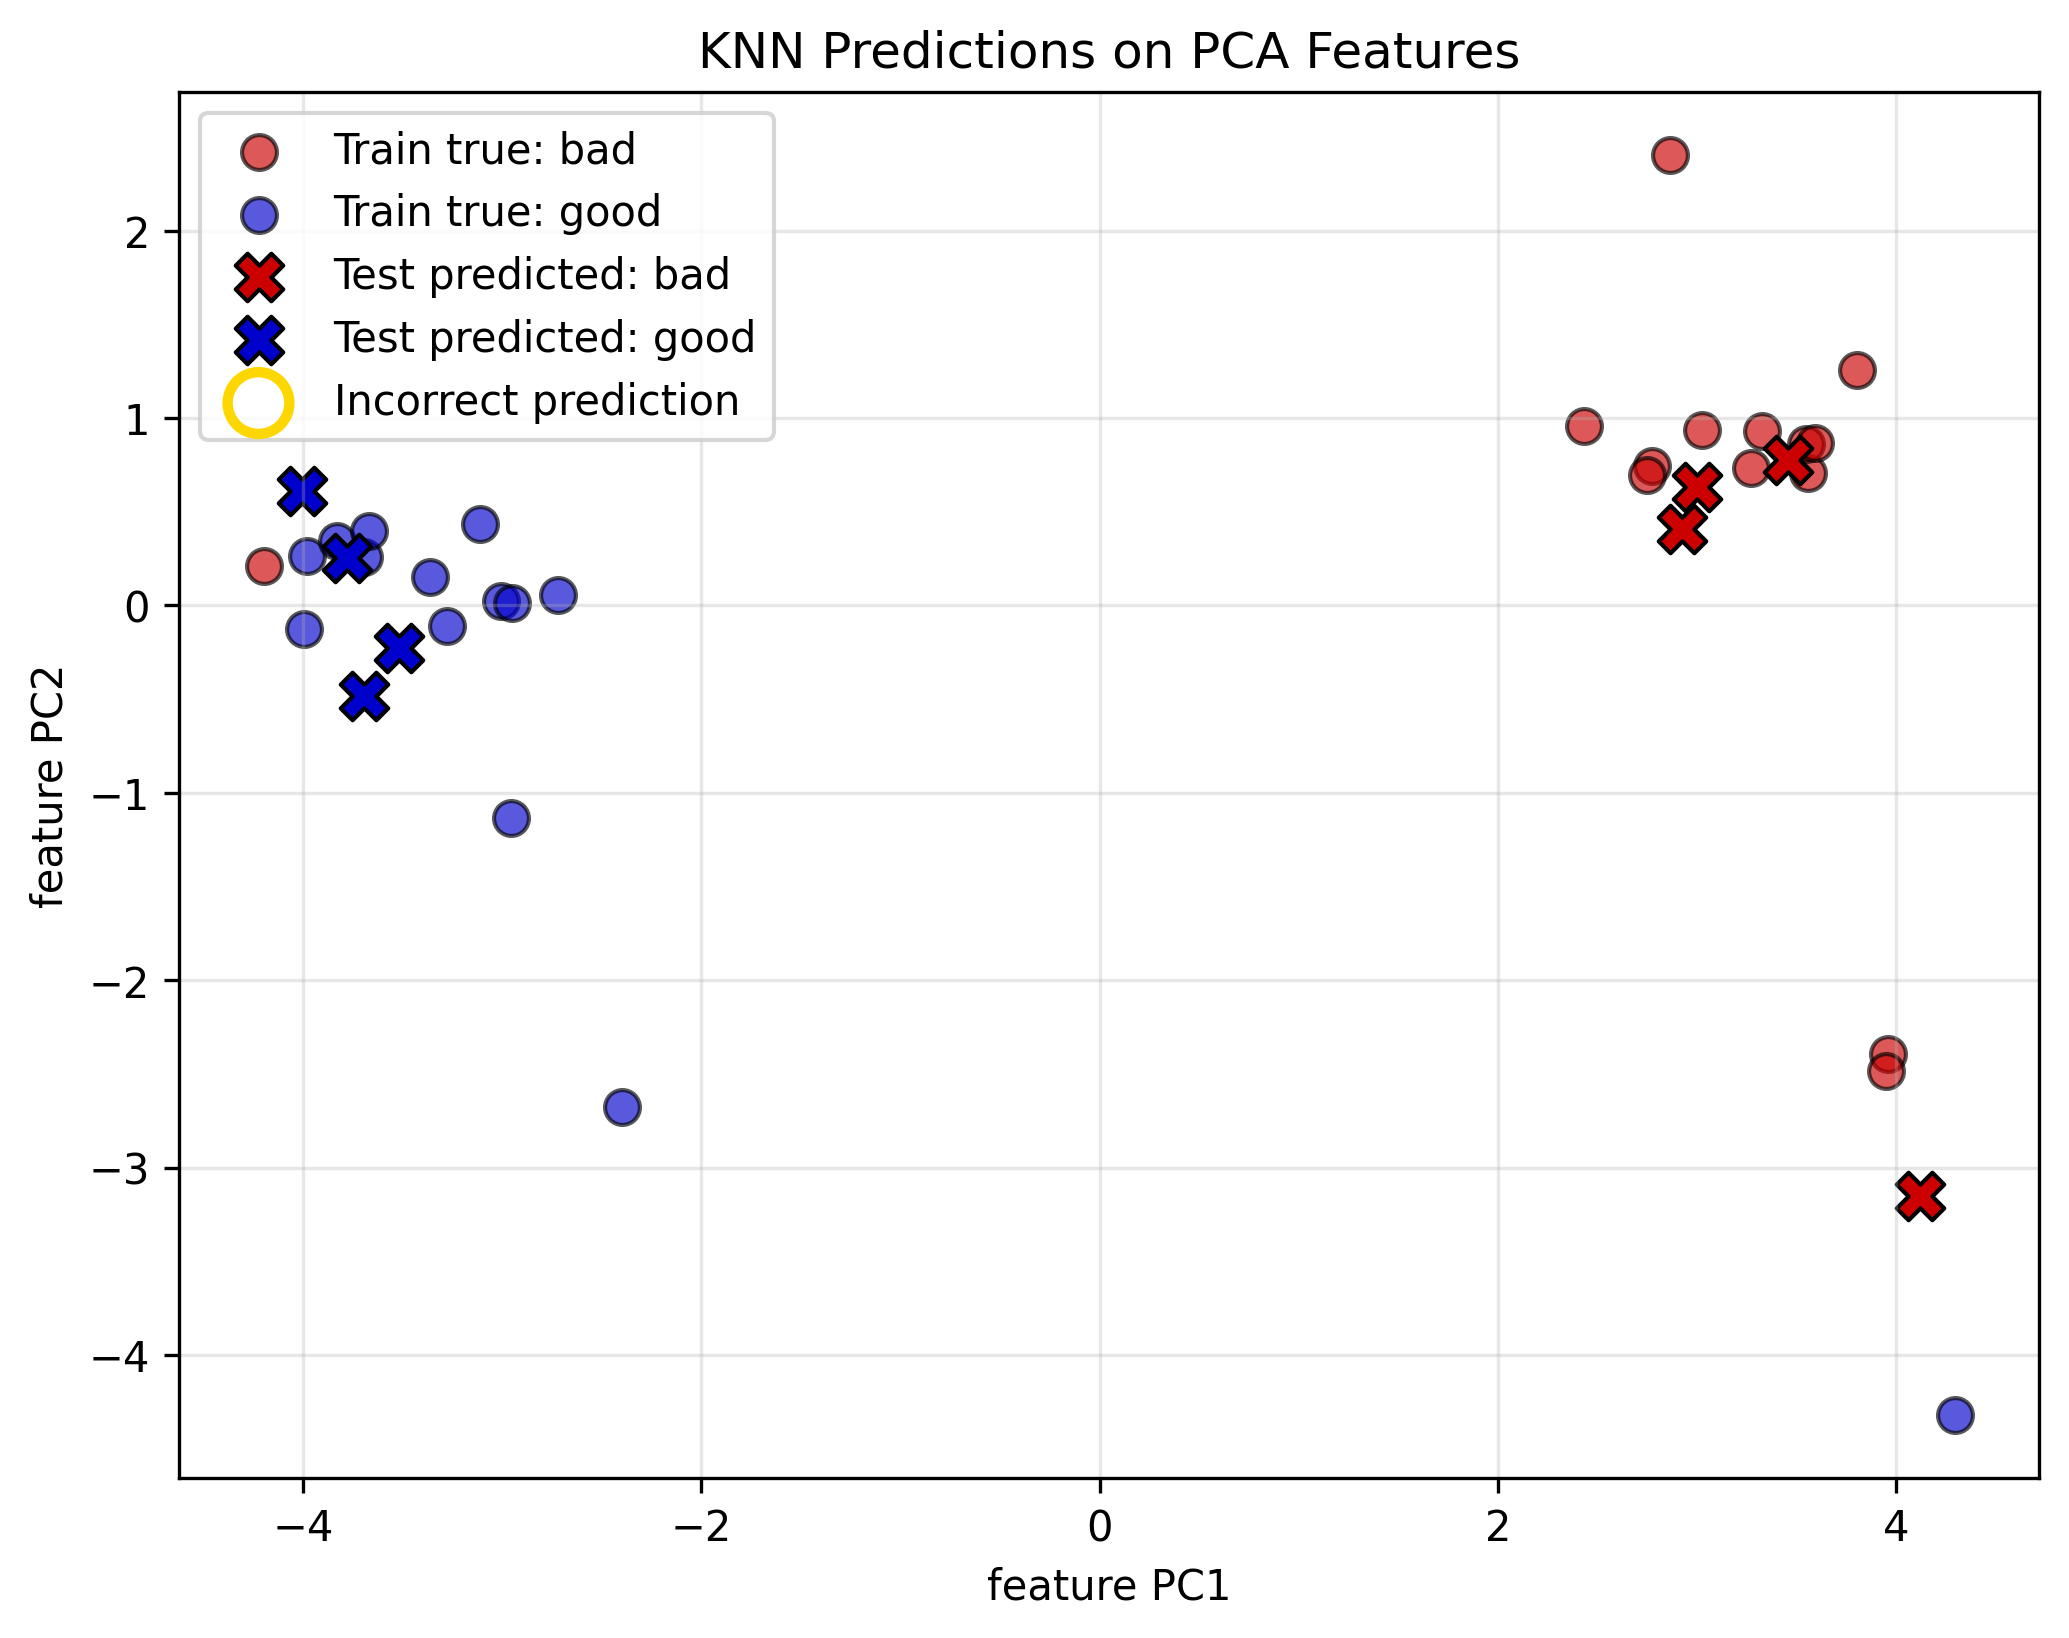
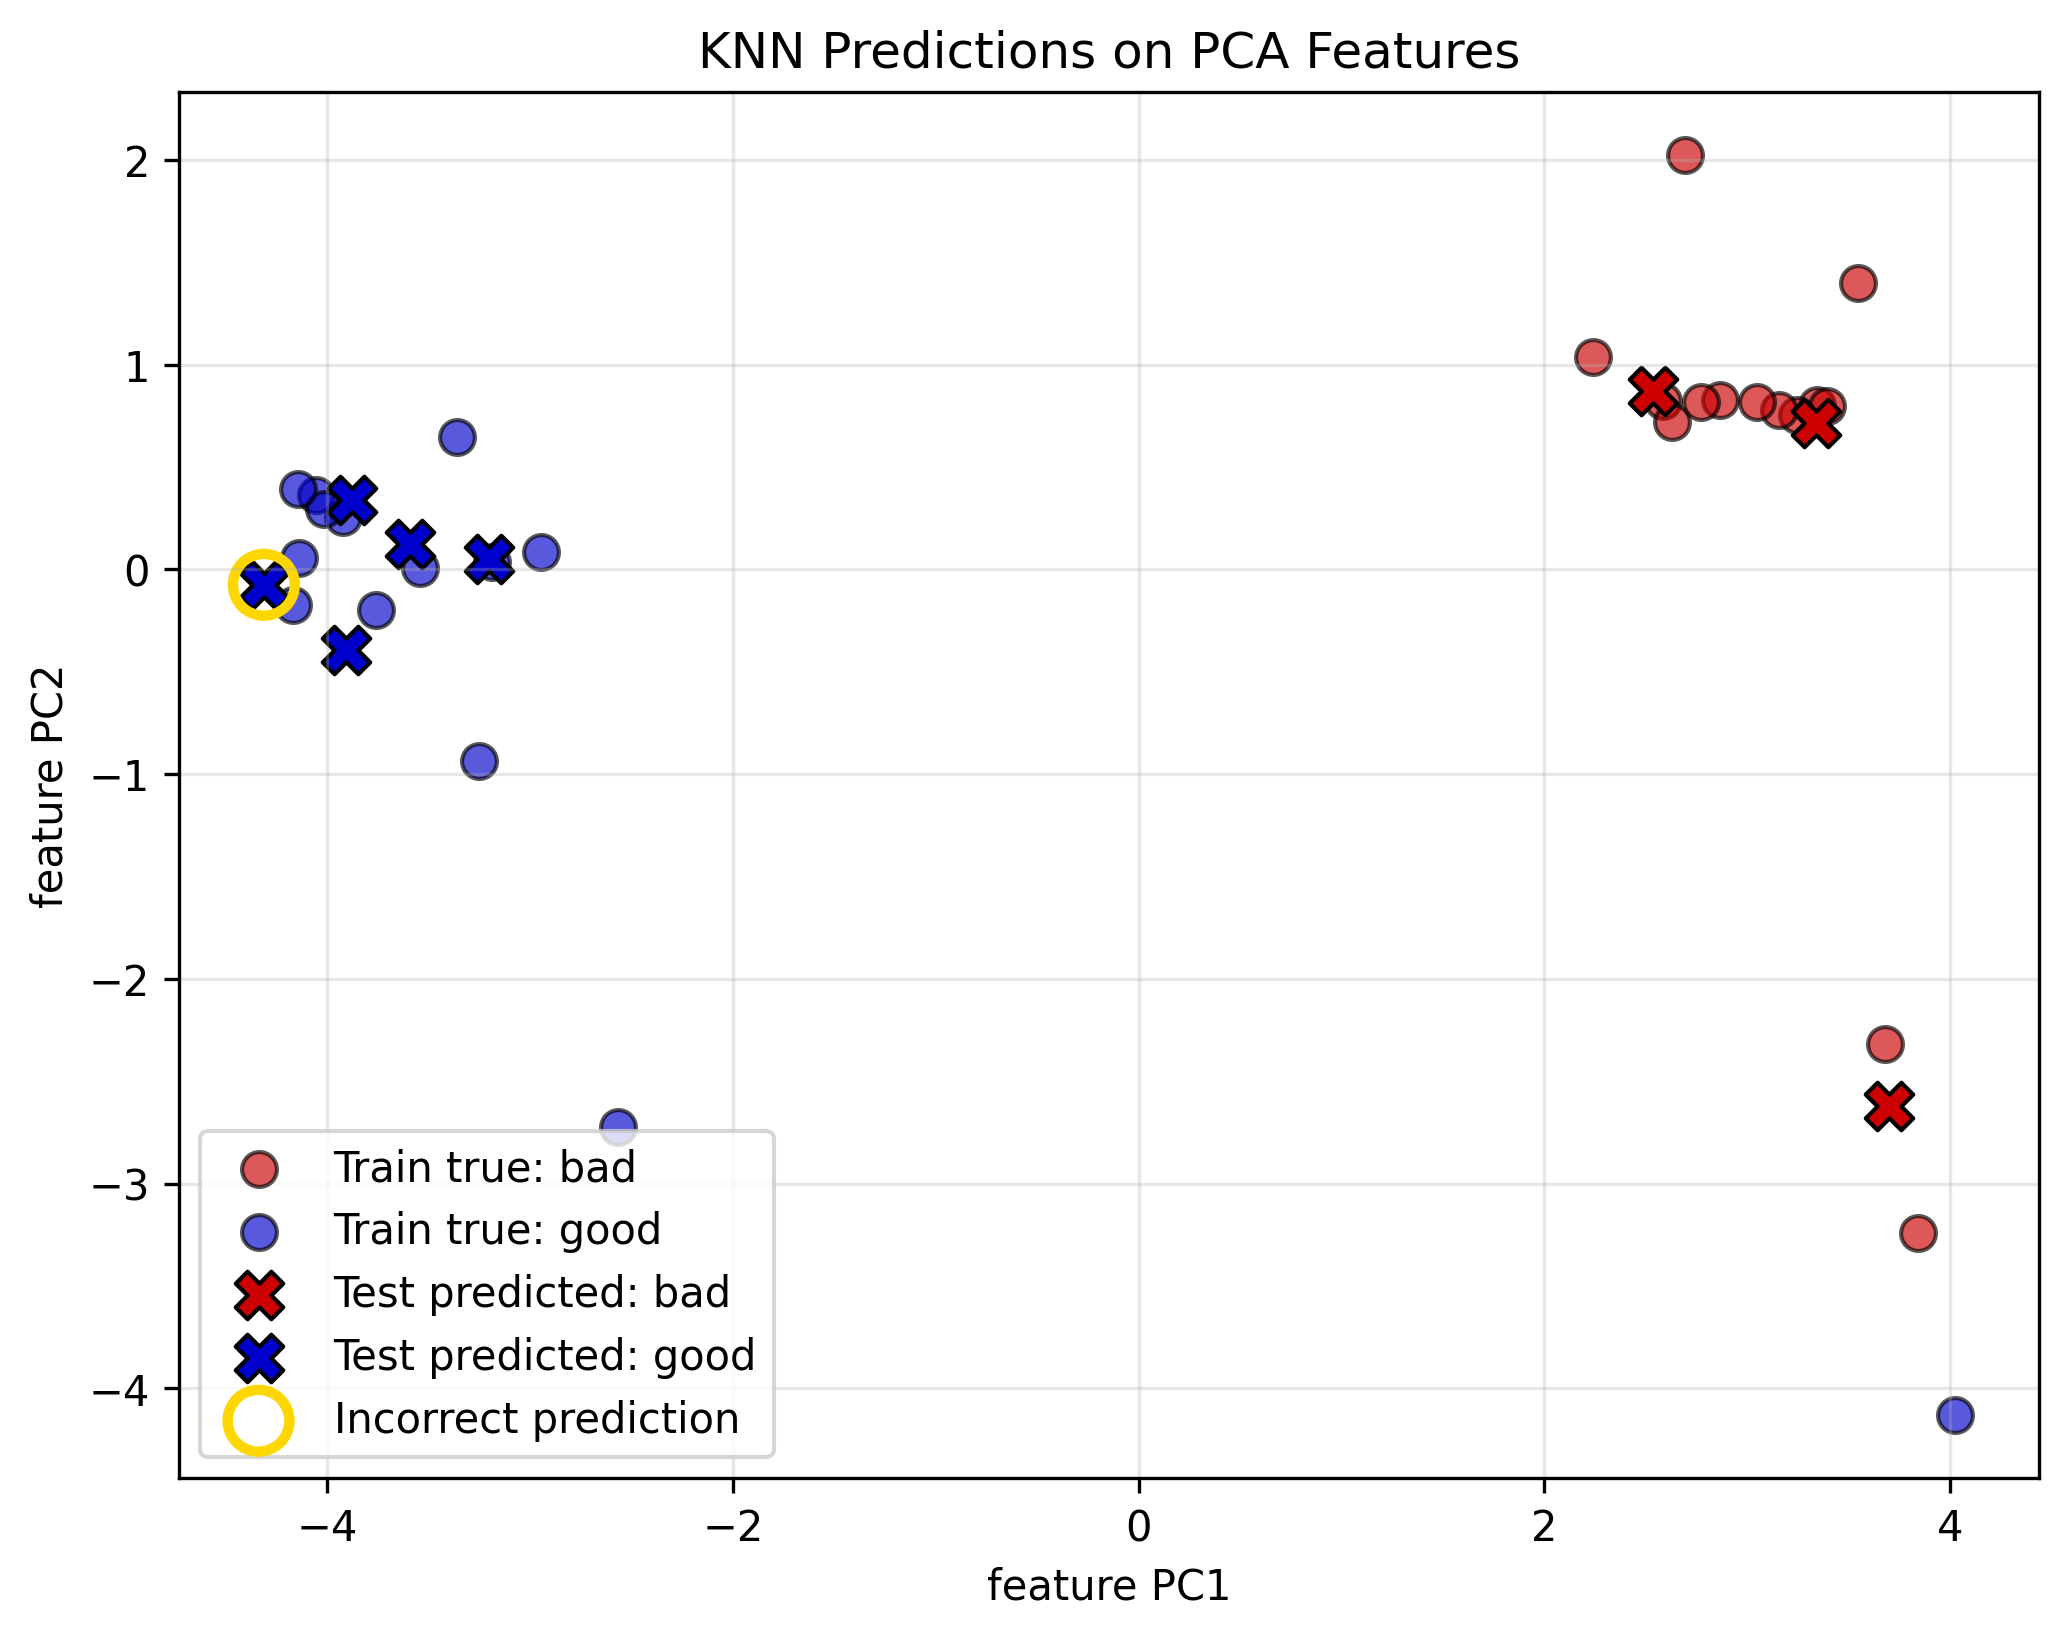
added random_seed to supervised learning function

diff --git a/src.py b/src.py
@@ -276,9 +276,9 @@ def separeData(df: pd.DataFrame, target_column: str = 'label', test_size: float 
     X = df.drop(columns=columns_to_drop)
     y = df[target_column]
     X_train, X_test, y_train, y_test = train_test_split(
-        X, y, 
-        test_size=test_size, 
-        random_state=random_state, 
+        X, y,
+        test_size=test_size,
+        random_state=random_state,
         stratify=y
     )
     return X_train, X_test, y_train, y_test
@@ -291,7 +291,7 @@ def create_pca(filtered_features, random_seed:int = 42):
     the new x and y arrays for the model training and validation
     """
 
-    X_train, X_test, y_train, y_test = separeData(filtered_features, random_state=42)
+    X_train, X_test, y_train, y_test = separeData(filtered_features, random_state=random_seed)
 
     scaler = sklearn.preprocessing.StandardScaler()
 
@@ -336,12 +336,12 @@ def create_pca(filtered_features, random_seed:int = 42):
 
 
 
-def supervised_learning(X_train_pca, X_test_pca, y_train, y_test, plot=True):
+def supervised_learning(X_train_pca, X_test_pca, y_train, y_test, n_neighbors=5, plot=True, feature1='PC1', feature2='PC2'):
 
     models = {
         
     # "Logistic Regression": LogisticRegression(max_iter=1000),
-     "KNN": KNeighborsClassifier(n_neighbors=5),
+     "KNN": KNeighborsClassifier(n_neighbors),
     # "SVM Linear": SVC(kernel="linear"),
     # "SVM RBF": SVC(kernel="rbf")
 
@@ -383,9 +383,6 @@ def supervised_learning(X_train_pca, X_test_pca, y_train, y_test, plot=True):
         }
 
         plt.figure(figsize=(8, 6))
-
-        feature1 = 'PC1'
-        feature2 = 'PC2'
 
         # Plot training data using true labels
         for label in labels: